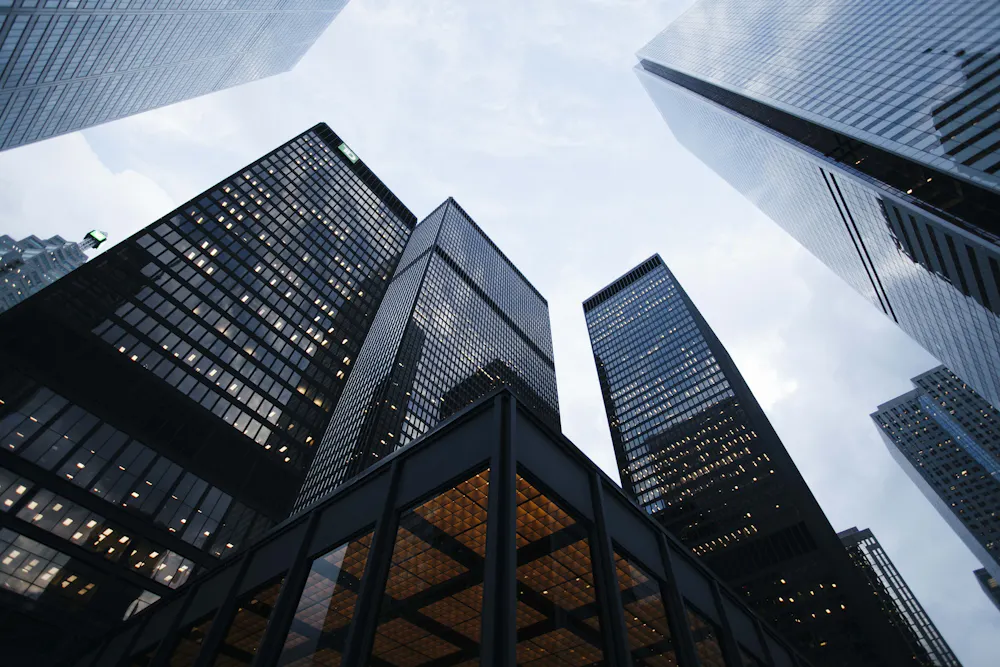
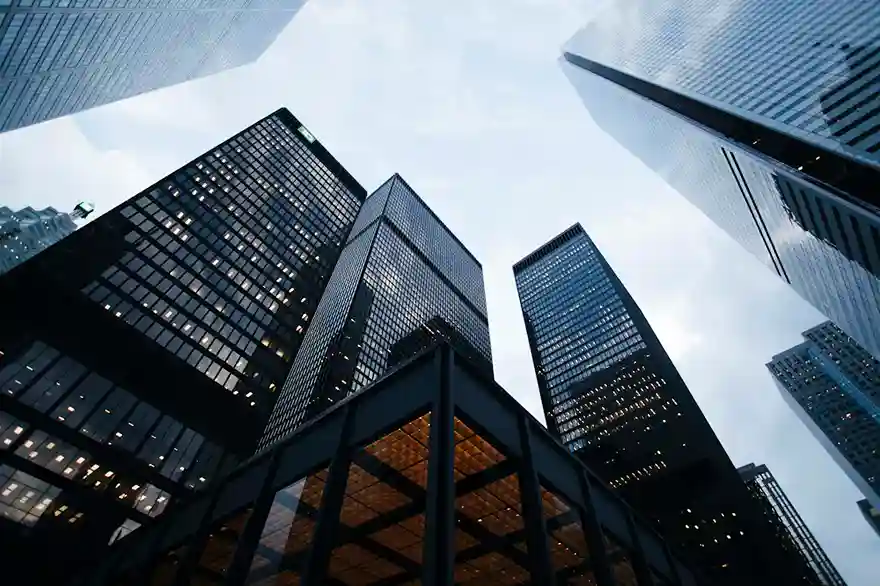
Add files via upload

diff --git a/index.html b/index.html
@@ -141,37 +141,37 @@
  <div class="ic"><svg width="26" height="26" viewBox="0 0 24 24" fill="none" stroke="currentColor" stroke-width="1.7" stroke-linecap="round" stroke-linejoin="round"><rect x="2" y="7" width="20" height="14" rx="2"/><path d="M16 21V5a2 2 0 0 0-2-2h-4a2 2 0 0 0-2 2v16"/></svg></div>
  <h3>Buyouts &amp; Control</h3>
  <p>Full acquisitions, carve-outs, and going-private transactions with a hands-on transformation playbook.</p>
- <a class="link" href="404.html">Learn more</a>
+ <a class="btn btn-outline btn-sm" href="404.html">Learn more <span class="arrow"><svg width="14" height="14" viewBox="0 0 24 24" fill="none" stroke="currentColor" stroke-width="1.7" stroke-linecap="round" stroke-linejoin="round"><path d="M5 12h14"/><path d="m12 5 7 7-7 7"/></svg></span></a>
  </article>
  <article class="icon-card" data-reveal data-tilt>
  <div class="ic"><svg width="26" height="26" viewBox="0 0 24 24" fill="none" stroke="currentColor" stroke-width="1.7" stroke-linecap="round" stroke-linejoin="round"><path d="M22 7 13.5 15.5 8.5 10.5 2 17"/><path d="M16 7h6v6"/></svg></div>
  <h3>Growth Capital</h3>
  <p>Minority and structured growth investments accelerating scalable, high-margin businesses.</p>
- <a class="link" href="404.html">Learn more</a>
+ <a class="btn btn-outline btn-sm" href="404.html">Learn more <span class="arrow"><svg width="14" height="14" viewBox="0 0 24 24" fill="none" stroke="currentColor" stroke-width="1.7" stroke-linecap="round" stroke-linejoin="round"><path d="M5 12h14"/><path d="m12 5 7 7-7 7"/></svg></span></a>
  </article>
  <article class="icon-card" data-reveal data-tilt>
  <div class="ic"><svg width="26" height="26" viewBox="0 0 24 24" fill="none" stroke="currentColor" stroke-width="1.7" stroke-linecap="round" stroke-linejoin="round"><path d="M4.5 16.5c-1.5 1.3-2 5-2 5s3.7-.5 5-2c.7-.8.7-2 0-2.8-.8-.8-2-.8-3 0z"/><path d="m12 15-3-3a22 22 0 0 1 2-3.9A12.9 12.9 0 0 1 21.8 2 12.9 12.9 0 0 1 17 12.9 22 22 0 0 1 13 15l-3-3"/><path d="M9 12 7.3 8.7A14 14 0 0 0 5 6c-.6 0-1 .4-1 1v2c0 1.4.5 2.7 1.4 3.7L7.5 13"/></svg></div>
  <h3>Venture Capital</h3>
- <p>Series A C backing for category-defining founders in deep tech, SaaS, and fintech.</p>
- <a class="link" href="404.html">Learn more</a>
+ <p>Series A C backing for category-defining founders in deep tech, SaaS, and fintech Equity.</p>
+ <a class="btn btn-outline btn-sm" href="404.html">Learn more <span class="arrow"><svg width="14" height="14" viewBox="0 0 24 24" fill="none" stroke="currentColor" stroke-width="1.7" stroke-linecap="round" stroke-linejoin="round"><path d="M5 12h14"/><path d="m12 5 7 7-7 7"/></svg></span></a>
  </article>
  <article class="icon-card" data-reveal data-tilt>
  <div class="ic"><svg width="26" height="26" viewBox="0 0 24 24" fill="none" stroke="currentColor" stroke-width="1.7" stroke-linecap="round" stroke-linejoin="round"><path d="m2 4 20 8-9 2-2 9z"/></svg></div>
  <h3>Mergers &amp; Acquisition</h3>
  <p>Buy-side and sell-side advisory, merger integration, and cross-border deal orchestration.</p>
- <a class="link" href="404.html">Learn more</a>
+ <a class="btn btn-outline btn-sm" href="404.html">Learn more <span class="arrow"><svg width="14" height="14" viewBox="0 0 24 24" fill="none" stroke="currentColor" stroke-width="1.7" stroke-linecap="round" stroke-linejoin="round"><path d="M5 12h14"/><path d="m12 5 7 7-7 7"/></svg></span></a>
  </article>
  <article class="icon-card" data-reveal data-tilt>
  <div class="ic"><svg width="26" height="26" viewBox="0 0 24 24" fill="none" stroke="currentColor" stroke-width="1.7" stroke-linecap="round" stroke-linejoin="round"><path d="M21 12a9 9 0 1 1-6.2-8.6"/><path d="M21 3v6h-6"/></svg></div>
  <h3>Turnaround &amp; Restructuring</h3>
- <p>Capital and crisis-management expertise to stabilize and reposition distressed assets.</p>
- <a class="link" href="404.html">Learn more</a>
+ <p>Capital and crisis-management expertise to stabilize and reposition distressed assets for private equity.</p>
+ <a class="btn btn-outline btn-sm" href="404.html">Learn more <span class="arrow"><svg width="14" height="14" viewBox="0 0 24 24" fill="none" stroke="currentColor" stroke-width="1.7" stroke-linecap="round" stroke-linejoin="round"><path d="M5 12h14"/><path d="m12 5 7 7-7 7"/></svg></span></a>
  </article>
  <article class="icon-card" data-reveal data-tilt>
  <div class="ic"><svg width="26" height="26" viewBox="0 0 24 24" fill="none" stroke="currentColor" stroke-width="1.7" stroke-linecap="round" stroke-linejoin="round"><path d="M3 3v18h18"/><path d="m19 9-5 5-4-4-3 3"/></svg></div>
  <h3>Exit &amp; IPO Advisory</h3>
- <p>Timed, well-structured exits strategic sales, secondaries, and public market listings.</p>
- <a class="link" href="404.html">Learn more</a>
+ <p>Timed, well-structured exits strategic sales, secondaries,Dealership and public market listings.</p>
+ <a class="btn btn-outline btn-sm" href="404.html">Learn more <span class="arrow"><svg width="14" height="14" viewBox="0 0 24 24" fill="none" stroke="currentColor" stroke-width="1.7" stroke-linecap="round" stroke-linejoin="round"><path d="M5 12h14"/><path d="m12 5 7 7-7 7"/></svg></span></a>
  </article>
  </div>
  </div>

diff --git a/js/main.js b/js/main.js
@@ -290,36 +290,64 @@
  });
  });
 document.querySelectorAll('form[data-auth-form]').forEach(form => {
-  form.addEventListener('submit', e => {
-  e.preventDefault();
-  const mail = form.querySelector('#si-email, #su-email');
-  if (mail) {
-  if (!mail.value.trim()) {
-  showFieldError(mail, 'Please enter your email address.');
-  return;
-  }
-  if (!isValidGmail(mail.value)) {
-  showFieldError(mail, 'Please enter a valid Gmail address ending with "@gmail.com".');
-  return;
-  }
-  }
-  const role = (form.querySelector('input[name="role"]') || {}).value || 'user';
-  const isSignin = form.querySelector('#si-email') !== null;
-  const loginEmail = mail ? mail.value.trim() : '';
-  if (loginEmail) localStorage.setItem('stackly_user_email', loginEmail);
-  showToast(isSignin
-  ? (role === 'admin' ? 'Admin signed in successfully.' : 'Signed in successfully.')
-  : (role === 'admin' ? 'Admin account created. Please sign in.' : 'Account created. Please sign in.'));
-  setTimeout(() => {
-  location.href = isSignin
-  ? (role === 'admin' ? 'admin-dashboard.html' : 'user-dashboard.html')
-  : 'signin.html';
-  }, 750);
-  });
-  });
-  document.querySelectorAll('#si-email, #su-email').forEach(inp => {
-  inp.addEventListener('input', () => clearFieldError(inp));
-  });
+   form.addEventListener('submit', e => {
+   e.preventDefault();
+   let ok = true;
+   form.querySelectorAll('[required]').forEach(inp => {
+   if (inp.type === 'checkbox') {
+   if (!inp.checked) {
+   clearFieldError(inp);
+   const err = document.createElement('div');
+   err.className = 'field-error';
+   err.textContent = 'Please tick this box to continue.';
+   const host = inp.closest('.check-row');
+   (host || inp.parentElement).after(err);
+   inp.classList.add('error');
+   ok = false;
+   }
+   return;
+   }
+   if (!inp.value.trim()) {
+   const msg = inp.type === 'email' ? 'Please enter your email address.'
+   : inp.type === 'password' ? 'Please enter your password.'
+   : inp.id === 'su-fname' ? 'Please enter your first name.'
+   : inp.id === 'su-lname' ? 'Please enter your last name.'
+   : 'Please fill in this field.';
+   showFieldError(inp, msg);
+   ok = false;
+   return;
+   }
+   if (inp.type === 'email' && !isValidGmail(inp.value)) {
+   showFieldError(inp, 'Please enter a valid Gmail address ending with "@gmail.com".');
+   ok = false;
+   return;
+   }
+   if (inp.type === 'password' && inp.value.trim().length < 8) {
+   showFieldError(inp, 'Password must be at least 8 characters long.');
+   ok = false;
+   return;
+   }
+   });
+   if (!ok) return;
+   const mail = form.querySelector('#si-email, #su-email');
+   const role = (form.querySelector('input[name="role"]') || {}).value || 'user';
+   const isSignin = form.querySelector('#si-email') !== null;
+   const loginEmail = mail ? mail.value.trim() : '';
+   if (loginEmail) localStorage.setItem('stackly_user_email', loginEmail);
+   showToast(isSignin
+   ? (role === 'admin' ? 'Admin signed in successfully.' : 'Signed in successfully.')
+   : (role === 'admin' ? 'Admin account created. Please sign in.' : 'Account created. Please sign in.'));
+   setTimeout(() => {
+   location.href = isSignin
+   ? (role === 'admin' ? 'admin-dashboard.html' : 'user-dashboard.html')
+   : 'signin.html';
+   }, 750);
+   });
+   });
+  document.querySelectorAll('form[data-auth-form] [required]').forEach(inp => {
+   inp.addEventListener('input', () => clearFieldError(inp));
+   inp.addEventListener('change', () => clearFieldError(inp));
+   });
 const newsletter = document.querySelector('.newsletter form');
   if (newsletter) newsletter.addEventListener('submit', e => {
   e.preventDefault();

diff --git a/user-dashboard.html b/user-dashboard.html
@@ -13,9 +13,9 @@
 <body>
 <div class="dash">
  <aside class="sidebar" id="sidebar">
- <div class="side-brand">
- <img src="Assets/logo.webp" alt="Stackly" class="brand-logo">
- <div class="side-brand-txt">
+<div class="side-brand">
+  <a href="user-dashboard.html" aria-label="Stackly home"><img src="Assets/logo.webp" alt="Stackly" class="brand-logo"></a>
+  <div class="side-brand-txt">
 
  </div>
  </div>
@@ -124,7 +124,7 @@
  <div class="grid-3d">
  <div class="kpi" style="margin:0"><div class="lbl"><span class="pill g">Fund VI</span></div><div class="val" style="font-size:1.2rem">Climate Infrastructure</div><p class="sec-sub" style="margin-top:.5rem">120%+ target, five-year vintage. Closing Nov 2026.</p><div class="row-actions mt-2"><a href="404.html" class="btn btn-primary btn-sm" data-action="invest">Express Interest</a></div></div>
  <div class="kpi" style="margin:0"><div class="lbl"><span class="pill b">Co-Invest</span></div><div class="val" style="font-size:1.2rem">NorthPeak Expansion</div><p class="sec-sub" style="margin-top:.5rem">$30M add-on; co-invest rights for existing LPs.</p><div class="row-actions mt-2"><a href="404.html" class="btn btn-primary btn-sm" data-action="invest">Review Memorandum</a></div></div>
- <div class="kpi" style="margin:0"><div class="lbl"><span class="pill p">Secondaries</span></div><div class="val" style="font-size:1.2rem">VC Portfolio Sale</div><p class="sec-sub" style="margin-top:.5rem">Stakes in 11 venture companies; NAV discounted 12%.</p><div class="row-actions mt-2"><a href="404.html" class="btn btn-primary btn-sm" data-action="invest">Browse Inventory</a></div></div>
+ <div class="kpi" style="margin:0"><div class="lbl"><span class="pill p">Secondaries</span></div><div class="val" style="font-size:1.2rem">VC Portfolio Sale</div><p class="sec-sub" style="margin-top:.5rem">Stakes in 11 venture companies; NAV discounted.</p><div class="row-actions mt-2"><a href="404.html" class="btn btn-primary btn-sm" data-action="invest">Browse Inventory</a></div></div>
  </div>
  </section>
  </main>

diff --git a/js/dashboard.js b/js/dashboard.js
@@ -294,10 +294,24 @@
   });
   });
 
-/* ---------- Search box: Enter redirects to 404 ---------- */
+/* ---------- Search box: Enter clears bar then redirects to 404 ---------- */
    document.querySelectorAll('.search-box input').forEach(inp => {
    inp.addEventListener('keydown', e => {
    if (e.key === 'Enter') {
+   e.preventDefault();
+   inp.value = '';
+   location.href = '404.html';
+   }
+   });
+   });
+
+/* ---------- User chip / profile bar redirects to 404 ---------- */
+   document.querySelectorAll('.user-chip').forEach(chip => {
+   chip.addEventListener('click', () => { location.href = '404.html'; });
+   chip.style.cursor = 'pointer';
+   chip.setAttribute('tabindex', '0');
+   chip.addEventListener('keydown', e => {
+   if (e.key === 'Enter' || e.key === ' ') {
    e.preventDefault();
    location.href = '404.html';
    }

diff --git a/signup.html b/signup.html
@@ -33,7 +33,7 @@
  <h1>Create Account</h1>
  <p class="sub">Join founders and LPs on the Stackly platform</p>
 <div class="role-switch" role="tablist" aria-label="Account type">
- <button type="button" class="active" data-role="user">User</button>
+ <button type="button" class="active" data-role="user">Investor</button>
  <button type="button" data-role="admin">Admin</button>
  </div>
  <form data-demo data-auth-form novalidate style="display:grid;gap:1rem">

diff --git a/signin.html b/signin.html
@@ -33,7 +33,7 @@
  <h1>Welcome Back</h1>
  <p class="sub">Sign in to the Stackly portal</p>
 <div class="role-switch" role="tablist" aria-label="Account type">
- <button type="button" class="active" data-role="user">User</button>
+ <button type="button" class="active" data-role="user">Investor</button>
  <button type="button" data-role="admin">Admin</button>
  </div>
  <form data-demo data-auth-form novalidate style="display:grid;gap:1rem">

diff --git a/admin-dashboard.html b/admin-dashboard.html
@@ -13,9 +13,9 @@
 <body>
 <div class="dash">
  <aside class="sidebar" id="sidebar">
- <div class="side-brand">
- <img src="Assets/logo.webp" alt="Stackly" class="brand-logo">
- <div class="side-brand-txt">
+<div class="side-brand">
+  <a href="admin-dashboard.html" aria-label="Stackly home"><img src="Assets/logo.webp" alt="Stackly" class="brand-logo"></a>
+  <div class="side-brand-txt">
  
  </div>
  </div>

diff --git a/css/style.css b/css/style.css
@@ -327,6 +327,7 @@ h3{font-size:clamp(1.15rem,2vw,1.45rem);}
  font-weight:700;font-size:.86rem;transition:gap .3s var(--ease);
 }
 .icon-card a.link:hover{gap:.8rem;}
+.icon-card .btn{margin-top:1.2rem;}
 .light-rows .icon-card{background:rgba(255,255,255,.05);border-color:rgba(255,255,255,.09);}
 .light-rows .icon-card p{color:rgba(255,255,255,.6);}
 .light-rows .icon-card h3{color:var(--white);}
